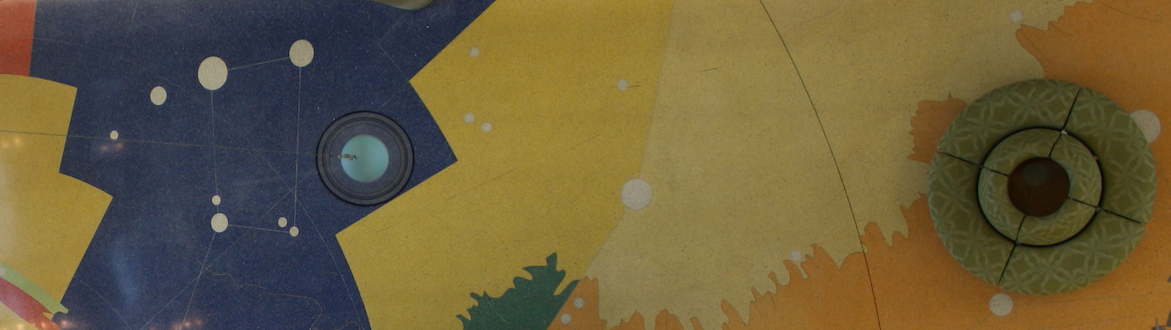
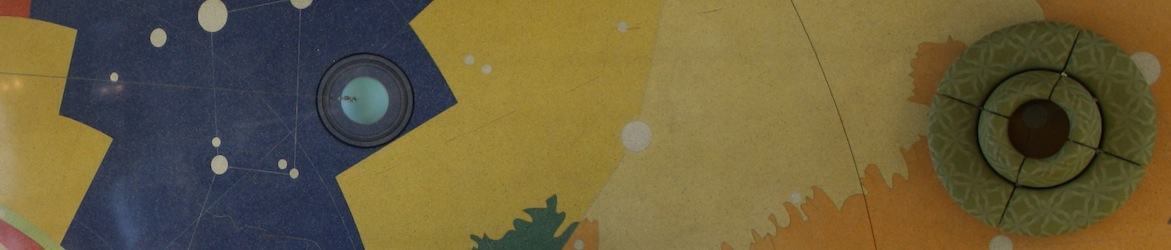
Made feature images narrower

diff --git a/_includes/carousel.html b/_includes/carousel.html
@@ -4,15 +4,15 @@
 
     <!-- R Consulting -->
     <div class="item active">
-      <a href="/consulting/" rel="nofollow"><img src="/img/featured/5.jpg" alt="R Consulting"></a>
+      <a href="/consulting/" rel="nofollow"><img src="/img/featured/rubiks_cube_wide.jpg" alt="R Consulting"></a>
       <div class="carousel-caption">
-        <p class="lead">R Consulting - Transforming Data Into Insights Through the Power of R &raquo;</p>
+        <p class="lead">R Consulting - Transforming Data Into Insights Through the Power of R &raquo; </p>
       </div> <!-- carousel-caption -->
     </div> <!-- item active -->
   
     <!-- R Solutions -->
     <div class="item">
-      <a href="/solutions/" rel="nofollow"><img src="/img/featured/3.jpg" alt="R Solutions"></a>
+      <a href="/solutions/" rel="nofollow"><img src="/img/featured/city_hall.jpg" alt="R Solutions"></a>
       <div class="carousel-caption">
         <p class="lead">R Solutions - Development, Deployment and Maintenance of Customized Turn-Key R Programming Solutions &raquo;</p>
       </div> <!-- carousel-caption -->

diff --git a/consulting.html b/consulting.html
@@ -5,7 +5,7 @@ title: R Consulting
 description: "Transforming Data Into Insights Through the Power of R "
 tags: [R]
 image:
-  feature: featured/5.jpg
+  feature: featured/rubiks_cube.jpg
 ---
 <p>MPK Analytics offers analytics consulting to help clients gain fast, reproducible and cost-effective insight into their data.</p>
 

diff --git a/thankyou.html b/thankyou.html
@@ -5,7 +5,7 @@ title: Thank You!
 description: "Transforming Data Into Insights Through the Power of R "
 tags: [R]
 image:
-  feature: featured/4.jpg
+  feature: featured/leaf.jpg
 ---
 <div class="row">
   <div class="span8">

diff --git a/_layouts/page_vanilla.html b/_layouts/page_vanilla.html
@@ -8,7 +8,7 @@
     
     <header>
       <div class="container">
-        <img src="/img/{{ page.image.feature }}" class="img-circle">
+        <img src="/img/{{ page.image.feature }}">
       </div>
     </header>
     
